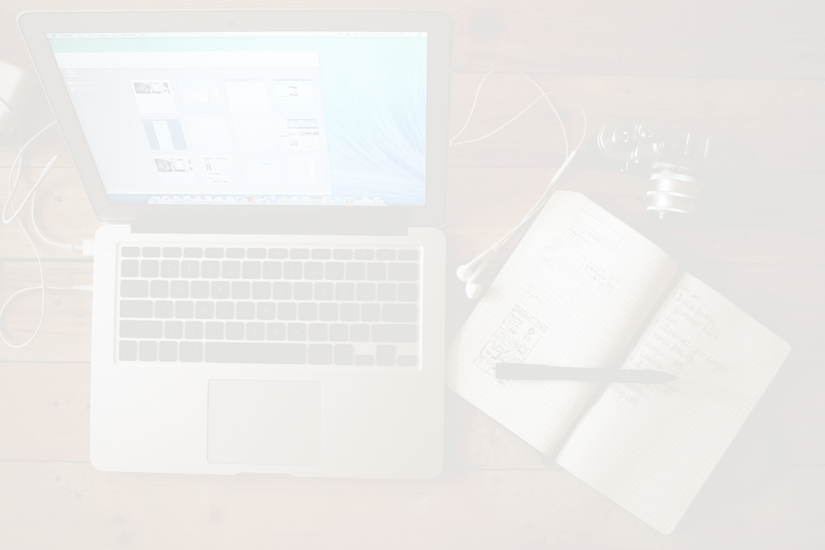
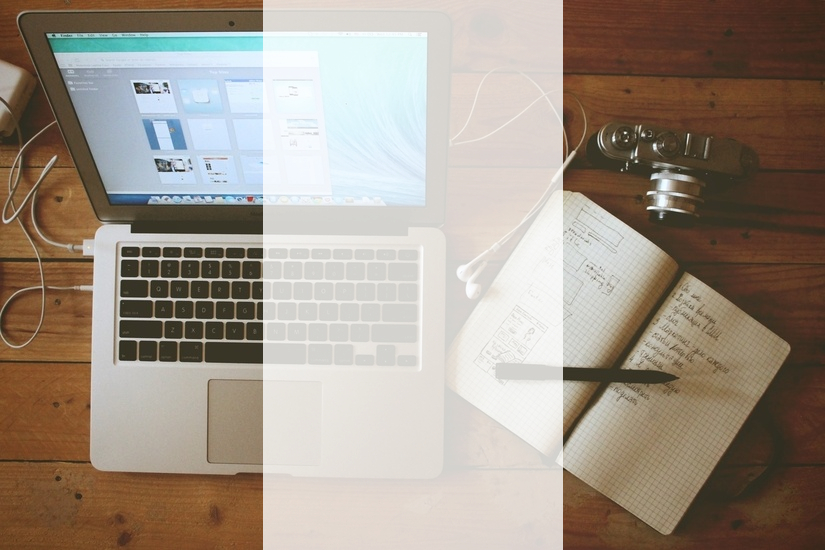
finished navbar and 1st section

diff --git a/css/styles.css b/css/styles.css
@@ -8770,42 +8770,128 @@ button.close {
     display: none !important;
   }
 }
-/* line 1, ../sass/_custom.scss */
-.navbar-default {
-  background-color: transparent;
-  border-color: transparent;
+/*!
+ * Start Bootstrap - Scrolling Nav HTML Template (http://startbootstrap.com)
+ * Code licensed under the Apache License v2.0.
+ * For details, see http://www.apache.org/licenses/LICENSE-2.0.
+ */
+/* line 7, ../sass/_scrolling-nav.scss */
+body {
+  width: 100%;
+  height: 100%;
 }
 
-/* line 5, ../sass/_custom.scss */
+/* line 12, ../sass/_scrolling-nav.scss */
+html {
+  width: 100%;
+  height: 100%;
+}
+
+/* Demo Sections - You can use these as guides or delete them - the scroller will work with any sort of height, fixed, undefined, or percentage based.
+The padding is very important to make sure the scrollspy picks up the right area when scrolled to. Adjust the margin and padding of sections and children 
+of those sections to manage the look and feel of the site. */
+/* line 23, ../sass/_scrolling-nav.scss */
+.intro-section {
+  height: 100%;
+  padding-top: 150px;
+  text-align: center;
+}
+
+/* line 29, ../sass/_scrolling-nav.scss */
+.projects-section {
+  height: 100%;
+  padding-top: 150px;
+  text-align: center;
+  background: #eee;
+}
+
+/* line 36, ../sass/_scrolling-nav.scss */
+.skills-section {
+  height: 100%;
+  padding-top: 150px;
+  text-align: center;
+  background: #fff;
+}
+
+/* line 43, ../sass/_scrolling-nav.scss */
+.contact-section {
+  height: 100%;
+  padding-top: 150px;
+  text-align: center;
+  background: #eee;
+}
+
+/* line 1, ../sass/_custom.scss */
 .navbar-nav {
+  padding-top: 30px;
+  background-color: transparent;
+  border-color: transparent;
   float: none;
   display: flex;
   flex-direction: row;
   justify-content: center;
 }
-
-/* line 12, ../sass/_custom.scss */
-.navbar-nav > li {
+/* line 10, ../sass/_custom.scss */
+.navbar-nav li {
   float: none;
+  font-size: 25px;
+}
+/* line 14, ../sass/_custom.scss */
+.navbar-nav li a {
+  color: white;
 }
 
-/* line 16, ../sass/_custom.scss */
+/* line 20, ../sass/_custom.scss */
+.nav > li > a:hover, .nav > li > a:focus {
+  text-decoration: underline;
+  background-color: transparent;
+}
+
+/* line 25, ../sass/_custom.scss */
 .intro-section {
-  background-image: url("../img/apple-camera-desk-office-large.jpg");
+  background: linear-gradient(rgba(0, 0, 0, 0.5), rgba(0, 0, 0, 0.5)), url("../img/laptop.jpeg");
   background-repeat: no-repeat;
   background-attachment: fixed;
   background-size: 100%;
 }
 
-/* line 23, ../sass/_custom.scss */
+/* line 32, ../sass/_custom.scss */
 .txt-bg {
   background-color: white;
   border-radius: 50%;
   padding: 50px;
 }
 
-/* line 29, ../sass/_custom.scss */
+/* line 38, ../sass/_custom.scss */
 h1 {
   font-family: "Raleway";
   font-size: 80px;
+}
+
+/* line 43, ../sass/_custom.scss */
+.card {
+  background: rgba(255, 255, 255, 0.7);
+  -webkit-border-radius: 10px;
+  -moz-border-radius: 10px;
+  -ms-border-radius: 10px;
+  border-radius: 10px;
+}
+
+/* line 48, ../sass/_custom.scss */
+.me {
+  float: left;
+  padding-bottom: 20px;
+  width: 150px;
+  height: auto;
+}
+
+/* line 55, ../sass/_custom.scss */
+.txt-intro {
+  padding-top: 50px;
+}
+
+/* line 59, ../sass/_custom.scss */
+.btn {
+  clear: both;
+  margin-top: 100px;
 }

diff --git a/index.html b/index.html
@@ -28,10 +28,10 @@
 
 <!-- The #page-top ID is part of the scrolling feature - the data-spy and data-target are part of the built-in Bootstrap scrollspy function -->
 
-<body id="page-top" data-spy="scroll" data-target=".navbar-default">
+<body id="page-top" data-spy="scroll" data-target=".navbar">
 
     <!-- Navigation -->
-    <nav class="navbar navbar-default navbar-default col-md-4 col-md-offset-4" role="navigation">
+    <nav class="navbar  col-md-4 col-md-offset-4" role="navigation">
 <!--        <div class="container">
             <div class="navbar-header page-scroll">
                 <button type="button" class="navbar-toggle" data-toggle="collapse" data-target=".navbar-ex1-collapse">
@@ -50,13 +50,13 @@
                         <a class="page-scroll" href="#page-top">About</a>
                     </li>
                     <li>
-                        <a class="page-scroll" href="#projects">Projects</a>
+                        <a class="page-scroll" href="#projects">PROJECTS</a>
                     </li>
                     <li>
-                        <a class="page-scroll" href="#skills">Skills</a>
+                        <a class="page-scroll" href="#skills">SKILLS</a>
                     </li>
                     <li>
-                        <a class="page-scroll" href="#contact">Contact</a>
+                        <a class="page-scroll" href="#contact">CONTACT</a>
                     </li>
                 </ul>
     </nav>
@@ -65,12 +65,14 @@
     <section id="intro" class="intro-section">
         <div class="container">
             <div class="row">
+                <div class="col-sm-6 col-sm-offset-3 card">
                     <h1>Maël Brunet</h1>
-                <div class="col-md-4 col-md-offset-4">
-                    <img src="img/mael.png">
-                    <p>Hello! My name is Maël Brunet, I'm a Brussels-based webmaster who has recently started learning front-end web development. This is my home on the web.</p>
-                    <a class="btn btn-default page-scroll" href="#projects">Find out about the projects I've worked on</a>
+                        <img src="img/mael.png" class="me">
+                        <p class="txt-intro">Hello! My name is Maël Brunet, I'm a Brussels-based webmaster who's recently transitionned into front-end web development. I like building things.</p>
                 </div>
+            </div>
+            <div class="row">
+                <a class="btn btn-default page-scroll col-sm-4 col-sm-offset-4" href="#projects">Find out more about the projects I've worked on</a>
             </div>
         </div>
     </section>

diff --git a/sass/_custom.scss b/sass/_custom.scss
@@ -1,23 +1,32 @@
-.navbar-default {
+.navbar-nav {
+  padding-top: 30px;
   background-color: transparent;
   border-color: transparent;
-}
-.navbar-nav {
   float: none;
   display: flex;
   flex-direction: row;
   justify-content: center;
+
+    li {
+    float: none;
+    font-size: 25px;
+
+      a {
+        color: white;
+      }
+  }
 }
 
-.navbar-nav > li {
-  float: none;
+.nav > li > a:hover, .nav > li > a:focus {
+  text-decoration: underline;
+  background-color: transparent;
 }
 
 .intro-section {
-  background-image: url('../img/apple-camera-desk-office-large.jpg');
-      background-repeat: no-repeat;
-    background-attachment: fixed;
-    background-size:100%;
+  background: linear-gradient( rgba(0, 0, 0, 0.5), rgba(0, 0, 0, 0.5) ), url('../img/laptop.jpeg');
+  background-repeat: no-repeat;
+  background-attachment: fixed;
+  background-size:100%;
 }
 
 .txt-bg {
@@ -29,4 +38,25 @@
 h1 {
   font-family: "Raleway";
   font-size: 80px;
+}
+
+.card {
+  background: rgba(255, 255, 255, 0.7);
+  @include border-radius(10px);
+}
+
+.me {
+  float: left;
+  padding-bottom: 20px;
+  width: 150px;
+  height: auto;
+}
+
+.txt-intro {
+  padding-top: 50px;
+}
+
+.btn {
+  clear:both;
+  margin-top: 100px;
 }

diff --git a/sass/_scrolling-nav.scss b/sass/_scrolling-nav.scss
@@ -1,0 +1,48 @@
+/*!
+ * Start Bootstrap - Scrolling Nav HTML Template (http://startbootstrap.com)
+ * Code licensed under the Apache License v2.0.
+ * For details, see http://www.apache.org/licenses/LICENSE-2.0.
+ */
+
+body {
+    width: 100%;
+    height: 100%;
+}
+
+html {
+    width: 100%;
+    height: 100%;
+}
+
+
+
+/* Demo Sections - You can use these as guides or delete them - the scroller will work with any sort of height, fixed, undefined, or percentage based.
+The padding is very important to make sure the scrollspy picks up the right area when scrolled to. Adjust the margin and padding of sections and children 
+of those sections to manage the look and feel of the site. */
+
+.intro-section {
+    height: 100%;
+    padding-top: 150px;
+    text-align: center;
+}
+
+.projects-section {
+    height: 100%;
+    padding-top: 150px;
+    text-align: center;
+    background: #eee;
+}
+
+.skills-section {
+    height: 100%;
+    padding-top: 150px;
+    text-align: center;
+    background: #fff;
+}
+
+.contact-section {
+    height: 100%;
+    padding-top: 150px;
+    text-align: center;
+    background: #eee;
+}

diff --git a/sass/_mixins.scss b/sass/_mixins.scss
@@ -1,0 +1,6 @@
+@mixin border-radius($radius) {
+  -webkit-border-radius: $radius;
+     -moz-border-radius: $radius;
+      -ms-border-radius: $radius;
+          border-radius: $radius;
+}

diff --git a/sass/styles.scss b/sass/styles.scss
@@ -7,6 +7,10 @@
 // Import Bootstrap for Sass
 @import "bootstrap";
 
+@import "mixins";
+
+@import "scrolling-nav";
+
 // Import Custom
 @import "custom";
 
